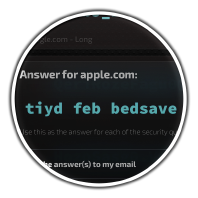
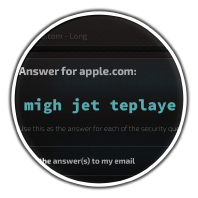
MPAlgorithm V2: handle multi-byte UTF-8 correctly by counting bytes, not characters.

diff --git a/MasterPassword/ObjC/MPAlgorithmV0.m b/MasterPassword/ObjC/MPAlgorithmV0.m
@@ -73,7 +73,7 @@
     return [(id<MPAlgorithm>)other version] == [self version];
 }
 
-- (BOOL)migrateUser:(MPUserEntity *)user inContext:(NSManagedObjectContext *)moc {
+- (BOOL)tryMigrateUser:(MPUserEntity *)user inContext:(NSManagedObjectContext *)moc {
 
     NSError *error = nil;
     NSFetchRequest *migrationRequest = [NSFetchRequest fetchRequestWithEntityName:NSStringFromClass( [MPSiteEntity class] )];
@@ -84,15 +84,15 @@
         return NO;
     }
 
-    BOOL requiresExplicitMigration = NO;
+    BOOL success = YES;
     for (MPSiteEntity *migrationSite in migrationSites)
-        if (![migrationSite migrateExplicitly:NO])
-            requiresExplicitMigration = YES;
+        if (![migrationSite tryMigrateExplicitly:NO])
+            success = NO;
 
-    return requiresExplicitMigration;
+    return success;
 }
 
-- (BOOL)migrateSite:(MPSiteEntity *)site explicit:(BOOL)explicit {
+- (BOOL)tryMigrateSite:(MPSiteEntity *)site explicit:(BOOL)explicit {
 
     if (site.version != [self version] - 1)
         // Only migrate from previous version.
@@ -364,11 +364,11 @@
 - (NSString *)generateLoginForSiteNamed:(NSString *)name usingKey:(MPKey *)key {
 
     return [self generateContentForSiteNamed:name ofType:MPSiteTypeGeneratedName withCounter:1
-                                                 variant:MPSiteVariantLogin context:nil usingKey:key];
+                                     variant:MPSiteVariantLogin context:nil usingKey:key];
 }
 
 - (NSString *)generatePasswordForSiteNamed:(NSString *)name ofType:(MPSiteType)type withCounter:(NSUInteger)counter
-              usingKey:(MPKey *)key {
+                                  usingKey:(MPKey *)key {
 
     return [self generateContentForSiteNamed:name ofType:type withCounter:counter
                                      variant:MPSiteVariantPassword context:nil usingKey:key];
@@ -381,7 +381,7 @@
 }
 
 - (NSString *)generateContentForSiteNamed:(NSString *)name ofType:(MPSiteType)type withCounter:(NSUInteger)counter
-              variant:(MPSiteVariant)variant context:(NSString *)context usingKey:(MPKey *)key {
+                                  variant:(MPSiteVariant)variant context:(NSString *)context usingKey:(MPKey *)key {
 
     // Determine the seed whose bytes will be used for calculating a password
     uint32_t ncounter = htonl( counter ), nnameLength = htonl( name.length ), ncontextLength = htonl( context.length );
@@ -396,9 +396,9 @@
             nameLengthBytes,
             [name dataUsingEncoding:NSUTF8StringEncoding],
             counterBytes,
-            context? contextLengthBytes: nil,
+                    context? contextLengthBytes: nil,
             [context dataUsingEncoding:NSUTF8StringEncoding],
-            nil]
+                    nil]
             hmacWith:PearlHashSHA256 key:key.keyData];
     trc( @"seed is: %@", [seed encodeHex] );
     const char *seedBytes = seed.bytes;
@@ -678,7 +678,7 @@
 }
 
 - (void)importProtectedPassword:(NSString *)protectedContent protectedByKey:(MPKey *)importKey
-                                                                   intoSite:(MPSiteEntity *)site usingKey:(MPKey *)siteKey {
+                       intoSite:(MPSiteEntity *)site usingKey:(MPKey *)siteKey {
 
     NSAssert( [siteKey.keyID isEqualToData:site.user.keyID], @"Site does not belong to current user." );
     switch (site.type) {

diff --git a/MasterPassword/ObjC/MPAlgorithmV2.m b/MasterPassword/ObjC/MPAlgorithmV2.m
@@ -15,14 +15,15 @@
 //  Copyright 2012 lhunath (Maarten Billemont). All rights reserved.
 //
 
-#import "MPAlgorithmV1.h"
+#import <objc/runtime.h>
+#import "MPAlgorithmV2.h"
 #import "MPEntities.h"
 
-@implementation MPAlgorithmV1
+@implementation MPAlgorithmV2
 
 - (NSUInteger)version {
 
-    return 1;
+    return 2;
 }
 
 - (BOOL)tryMigrateSite:(MPSiteEntity *)site explicit:(BOOL)explicit {
@@ -32,7 +33,7 @@
         return NO;
 
     if (!explicit) {
-        if (site.type & MPSiteTypeClassGenerated) {
+        if (site.type & MPSiteTypeClassGenerated && site.name.length != [site.name dataUsingEncoding:NSUTF8StringEncoding].length) {
             // This migration requires explicit permission for types of the generated class.
             site.requiresExplicitMigration = YES;
             return NO;
@@ -49,20 +50,23 @@
                                   variant:(MPSiteVariant)variant context:(NSString *)context usingKey:(MPKey *)key {
 
     // Determine the seed whose bytes will be used for calculating a password
-    uint32_t ncounter = htonl( counter ), nnameLength = htonl( name.length ), ncontextLength = htonl( context.length );
+    NSData *nameBytes = [name dataUsingEncoding:NSUTF8StringEncoding];
+    NSData *contextBytes = [context dataUsingEncoding:NSUTF8StringEncoding];
+    uint32_t ncounter = htonl( counter ), nnameLength = htonl( nameBytes.length ), ncontextLength = htonl( contextBytes.length );
     NSData *counterBytes = [NSData dataWithBytes:&ncounter length:sizeof( ncounter )];
     NSData *nameLengthBytes = [NSData dataWithBytes:&nnameLength length:sizeof( nnameLength )];
     NSData *contextLengthBytes = [NSData dataWithBytes:&ncontextLength length:sizeof( ncontextLength )];
     NSString *scope = [self scopeForVariant:variant];
+    NSData *scopeBytes = [scope dataUsingEncoding:NSUTF8StringEncoding];
     trc( @"seed from: hmac-sha256(%@, %@ | %@ | %@ | %@)",
             [[key keyID] encodeHex], scope, [nameLengthBytes encodeHex], name, [counterBytes encodeHex] );
     NSData *seed = [[NSData dataByConcatenatingDatas:
-            [scope dataUsingEncoding:NSUTF8StringEncoding],
+            scopeBytes,
             nameLengthBytes,
-            [name dataUsingEncoding:NSUTF8StringEncoding],
+            nameBytes,
             counterBytes,
                     context? contextLengthBytes: nil,
-            [context dataUsingEncoding:NSUTF8StringEncoding],
+            contextBytes,
                     nil]
             hmacWith:PearlHashSHA256 key:key.keyData];
     trc( @"seed is: %@", [seed encodeHex] );

diff --git a/MasterPassword/ObjC/MPEntities.m b/MasterPassword/ObjC/MPEntities.m
@@ -134,17 +134,19 @@
             self.loginName, self.requiresExplicitMigration );
 }
 
-- (BOOL)migrateExplicitly:(BOOL)explicit {
+- (BOOL)tryMigrateExplicitly:(BOOL)explicit {
 
-    while (self.version < MPAlgorithmDefaultVersion)
-        if ([MPAlgorithmForVersion( self.version + 1 ) migrateSite:self explicit:explicit])
-            inf( @"%@ migration to version: %ld succeeded for site: %@",
-                    explicit? @"Explicit": @"Automatic", (long)self.version + 1, self );
-        else {
+    while (self.version < MPAlgorithmDefaultVersion) {
+        NSUInteger toVersion = self.version + 1;
+        if (![MPAlgorithmForVersion( toVersion ) tryMigrateSite:self explicit:explicit]) {
             wrn( @"%@ migration to version: %ld failed for site: %@",
-                    explicit? @"Explicit": @"Automatic", (long)self.version + 1, self );
+                    explicit? @"Explicit": @"Automatic", (long)toVersion, self );
             return NO;
         }
+
+        inf( @"%@ migration to version: %ld succeeded for site: %@",
+                explicit? @"Explicit": @"Automatic", (long)toVersion, self );
+    }
 
     return YES;
 }

diff --git a/MasterPassword/ObjC/MPAlgorithm.h b/MasterPassword/ObjC/MPAlgorithm.h
@@ -19,7 +19,7 @@
 #import "MPStoredSiteEntity.h"
 #import "MPGeneratedSiteEntity.h"
 
-#define MPAlgorithmDefaultVersion 1
+#define MPAlgorithmDefaultVersion 2
 #define MPAlgorithmDefault MPAlgorithmForVersion(MPAlgorithmDefaultVersion)
 
 id<MPAlgorithm> MPAlgorithmForVersion(NSUInteger version);
@@ -43,8 +43,8 @@ NSString *NSStringFromTimeToCrack(TimeToCrack timeToCrack);
 
 @required
 - (NSUInteger)version;
-- (BOOL)migrateUser:(MPUserEntity *)user inContext:(NSManagedObjectContext *)moc;
-- (BOOL)migrateSite:(MPSiteEntity *)site explicit:(BOOL)explicit;
+- (BOOL)tryMigrateUser:(MPUserEntity *)user inContext:(NSManagedObjectContext *)moc;
+- (BOOL)tryMigrateSite:(MPSiteEntity *)site explicit:(BOOL)explicit;
 
 - (MPKey *)keyForPassword:(NSString *)password ofUserNamed:(NSString *)userName;
 - (MPKey *)keyFromKeyData:(NSData *)keyData;

diff --git a/MasterPassword/ObjC/iOS/MPPasswordsViewController.m b/MasterPassword/ObjC/iOS/MPPasswordsViewController.m
@@ -74,6 +74,18 @@
     [self updatePasswords];
 }
 
+- (void)viewDidAppear:(BOOL)animated {
+
+    [super viewDidAppear:animated];
+
+    [MPiOSAppDelegate managedObjectContextPerformBlock:^(NSManagedObjectContext *context) {
+        MPUserEntity *activeUser = [[MPiOSAppDelegate get] activeUserInContext:context];
+        if (![MPAlgorithmDefault tryMigrateUser:activeUser inContext:context])
+            [PearlOverlay showTemporaryOverlayWithTitle:@"Some Sites Need Upgrade" dismissAfter:2];
+        [context saveToStore];
+    }];
+}
+
 - (void)viewWillDisappear:(BOOL)animated {
 
     [super viewWillDisappear:animated];

diff --git a/MasterPassword/ObjC/MPAlgorithmV2.h b/MasterPassword/ObjC/MPAlgorithmV2.h
@@ -1,0 +1,21 @@
+/**
+ * Copyright Maarten Billemont (http://www.lhunath.com, lhunath@lyndir.com)
+ *
+ * See the enclosed file LICENSE for license information (LGPLv3). If you did
+ * not receive this file, see http://www.gnu.org/licenses/lgpl-3.0.txt
+ *
+ * @author   Maarten Billemont <lhunath@lyndir.com>
+ * @license  http://www.gnu.org/licenses/lgpl-3.0.txt
+ */
+
+//
+//  MPAlgorithmV1
+//
+//  Created by Maarten Billemont on 17/07/12.
+//  Copyright 2012 lhunath (Maarten Billemont). All rights reserved.
+//
+
+#import "MPAlgorithmV1.h"
+
+@interface MPAlgorithmV2 : MPAlgorithmV1
+@end

diff --git a/MasterPassword/ObjC/iOS/MPPasswordCell.m b/MasterPassword/ObjC/iOS/MPPasswordCell.m
@@ -317,7 +317,7 @@
 - (IBAction)doUpgrade:(UIButton *)sender {
 
     [MPiOSAppDelegate managedObjectContextPerformBlock:^(NSManagedObjectContext *context) {
-        if (![[self siteInContext:context] migrateExplicitly:YES]) {
+        if (![[self siteInContext:context] tryMigrateExplicitly:YES]) {
             [PearlOverlay showTemporaryOverlayWithTitle:@"Couldn't Upgrade Site" dismissAfter:2];
             return;
         }

diff --git a/MasterPassword/ObjC/MPAlgorithm.m b/MasterPassword/ObjC/MPAlgorithm.m
@@ -35,6 +35,9 @@ id<MPAlgorithm> MPAlgorithmDefaultForBundleVersion(NSString *bundleVersion) {
     if (PearlCFBundleVersionCompare( bundleVersion, @"1.3" ) == NSOrderedAscending)
         // Pre-1.3
         return MPAlgorithmForVersion( 0 );
+    if (PearlCFBundleVersionCompare( bundleVersion, @"2.1" ) == NSOrderedAscending)
+        // Pre-2.1
+        return MPAlgorithmForVersion( 1 );
 
     return MPAlgorithmDefault;
 }

diff --git a/MasterPassword/ObjC/MPEntities.h b/MasterPassword/ObjC/MPEntities.h
@@ -36,7 +36,7 @@
 @property(readonly) id<MPAlgorithm> algorithm;
 
 - (NSUInteger)use;
-- (BOOL)migrateExplicitly:(BOOL)explicit;
+- (BOOL)tryMigrateExplicitly:(BOOL)explicit;
 - (NSString *)resolveLoginUsingKey:(MPKey *)key;
 - (NSString *)resolvePasswordUsingKey:(MPKey *)key;
 - (void)resolveLoginUsingKey:(MPKey *)key result:(void ( ^ )(NSString *))result;
